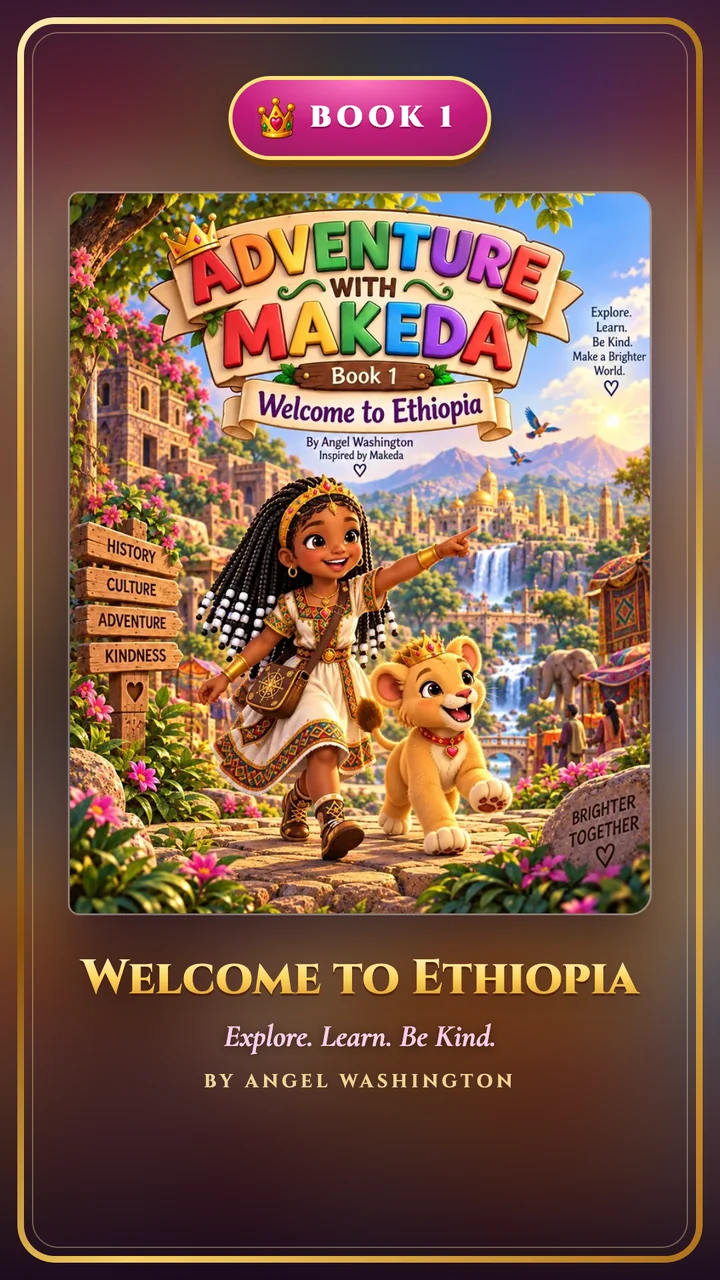
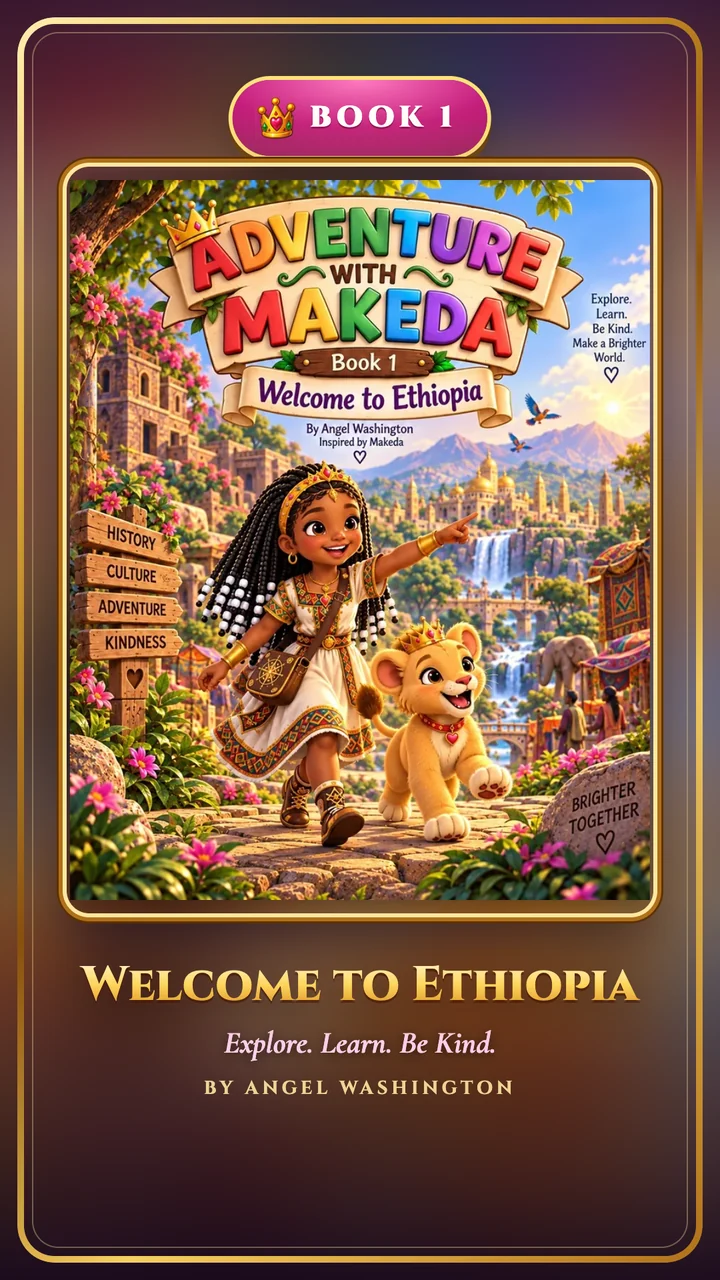
Add Book 5: Milo's Magical Groove; one uniform art window for every card
All five series cards share an identical 9:16 frame and art window; each
cover sits whole inside it over a blurred fill of its own art. Book 5 joins
the home and story fans, the library, and replaces the map's coming-soon orb.

diff --git a/index.html b/index.html
@@ -18,7 +18,7 @@
 <link rel="preconnect" href="https://fonts.gstatic.com" crossorigin>
 <link rel="stylesheet" href="https://fonts.googleapis.com/css2?family=Cinzel:wght@600;700;800&amp;family=Cormorant+Garamond:ital,wght@0,500;0,600;1,600;1,700&amp;family=DM+Sans:wght@400;500;700&amp;display=swap">
 <link rel="preload" as="image" href="assets/logo-1200.webp" fetchpriority="high">
-<link rel="stylesheet" href="styles.css?v=a5ae0f2f">
+<link rel="stylesheet" href="styles.css?v=849db406">
 <script>document.documentElement.classList.add('js')</script>
 </head>
 <body>
@@ -57,12 +57,9 @@
       </div>
       <a class="song-chip" href="#theme" data-play-theme><span class="song-chip-note" aria-hidden="true"><svg viewBox="0 0 24 24"><path d="M9 17.5V6.2l10-2.2v11.3"/><circle cx="6.5" cy="17.5" r="2.5"/><circle cx="16.5" cy="15.3" r="2.5"/></svg></span>Play the theme song</a>
     </div>
-    <div class="shelf shelf4" aria-label="Adventure with Makeda books 1 to 4">
+    <div class="shelf shelf5" aria-label="Adventure with Makeda books 1 to 5">
       <div class="shelf-glow" aria-hidden="true"></div>
-      <figure class="book f1 b1" style="aspect-ratio:9 / 16"><div class="cover"><img src="assets/book1-card-720.webp" srcset="assets/book1-card-360.webp 360w, assets/book1-card-720.webp 720w" sizes="(max-width: 860px) 120px, 210px" width="720" height="1280" fetchpriority="high" alt="Book 1: Welcome to Ethiopia. Makeda points toward a golden city and waterfalls, walking beside Faith, her lion cub."></div></figure>
-      <figure class="book f2 b2" style="aspect-ratio:9 / 16"><div class="cover"><img src="assets/book2-card-720.webp" srcset="assets/book2-card-360.webp 360w, assets/book2-card-720.webp 720w" sizes="(max-width: 860px) 120px, 200px" width="720" height="1280" fetchpriority="high" alt="Book 2: The Forest of Belonging. Makeda walks a mossy branch with a compass, a hummingbird, a pangolin and an otter."></div></figure>
-      <figure class="book f3 b3" style="aspect-ratio:9 / 16"><div class="cover"><img src="assets/book3-card-720.webp" srcset="assets/book3-card-360.webp 360w, assets/book3-card-720.webp 720w" sizes="(max-width: 860px) 110px, 200px" width="720" height="1280" fetchpriority="high" alt="Book 3: Auntie Rocky&rsquo;s Legacy Garden, The Path of Eternal Love. Makeda writes in her journal in a blooming garden with Faith."></div></figure>
-      <figure class="book f4 b4" style="aspect-ratio:9 / 16"><div class="cover"><img src="assets/book4-card-720.webp" srcset="assets/book4-card-360.webp 360w, assets/book4-card-720.webp 720w" sizes="(max-width: 860px) 120px, 210px" width="720" height="1280" fetchpriority="high" alt="Book 4: Apollo and the Realm of Brilliant Minds. Makeda and her brother Apollo ride Faith, a winged lion cub, over floating islands."></div></figure>
+      <figure class="book f1 b1" style="aspect-ratio:9 / 16"><div class="cover"><img src="assets/book1-card-720.webp" srcset="assets/book1-card-360.webp 360w, assets/book1-card-720.webp 720w" sizes="(max-width: 860px) 100px, 190px" width="720" height="1280" fetchpriority="high" alt="Book 1: Welcome to Ethiopia. Makeda points toward a golden city and waterfalls, walking beside Faith, her lion cub."></div></figure><figure class="book f2 b2" style="aspect-ratio:9 / 16"><div class="cover"><img src="assets/book2-card-720.webp" srcset="assets/book2-card-360.webp 360w, assets/book2-card-720.webp 720w" sizes="(max-width: 860px) 100px, 190px" width="720" height="1280" fetchpriority="high" alt="Book 2: The Forest of Belonging. Makeda walks a mossy branch with a compass, a hummingbird, a pangolin and an otter."></div></figure><figure class="book f3 b3" style="aspect-ratio:9 / 16"><div class="cover"><img src="assets/book3-card-720.webp" srcset="assets/book3-card-360.webp 360w, assets/book3-card-720.webp 720w" sizes="(max-width: 860px) 100px, 190px" width="720" height="1280" fetchpriority="high" alt="Book 3: Auntie Rocky&rsquo;s Legacy Garden, The Path of Eternal Love. Makeda writes in her journal in a blooming garden with Faith."></div></figure><figure class="book f4 b4" style="aspect-ratio:9 / 16"><div class="cover"><img src="assets/book4-card-720.webp" srcset="assets/book4-card-360.webp 360w, assets/book4-card-720.webp 720w" sizes="(max-width: 860px) 100px, 190px" width="720" height="1280" fetchpriority="high" alt="Book 4: Apollo and the Realm of Brilliant Minds. Makeda and her brother Apollo ride Faith, a winged lion cub, over floating islands."></div></figure><figure class="book f5 b5" style="aspect-ratio:9 / 16"><div class="cover"><img src="assets/book5-card-720.webp" srcset="assets/book5-card-360.webp 360w, assets/book5-card-720.webp 720w" sizes="(max-width: 860px) 100px, 190px" width="720" height="1280" fetchpriority="high" alt="Book 5: Milo&rsquo;s Magical Groove. Makeda and her cousin Milo dance on a glowing treehouse stage full of music notes and forest friends."></div></figure>
     </div>
   </div>
   <div class="clouds to-lavender" aria-hidden="true"></div>
@@ -77,7 +74,7 @@
     </header>
     <div class="map" data-map>
   <svg class="trail" aria-hidden="true"><path class="base"/><path class="dots"/></svg>
-  <ol class="nodes" style="list-style:none;margin:0;padding:0" aria-label="Worlds of the Makeda Multiverse"><li class="node" style="--x:10%;--y:62%;--mx:30%;--my:8%;--dl:-0.0s"><button class="portal" type="button" data-world="ethiopia" aria-label="Book 1: Welcome to Ethiopia. Open this world."><span class="badge-num" aria-hidden="true">Book 1</span><img src="assets/book1-cover-480.webp" alt="" style="--op:48% 50%" loading="lazy" decoding="async"></button><span class="node-title">Welcome to Ethiopia</span><span class="node-tag">Open the world</span></li><li class="node" style="--x:31%;--y:28%;--mx:70%;--my:27%;--dl:-0.9s"><button class="portal" type="button" data-world="forest" aria-label="Book 2: The Forest of Belonging. Open this world."><span class="badge-num" aria-hidden="true">Book 2</span><img src="assets/book2-cover-v2-640.webp" alt="" style="--op:50% 55%" loading="lazy" decoding="async"></button><span class="node-title">The Forest of Belonging</span><span class="node-tag">Open the world</span></li><li class="node" style="--x:52%;--y:66%;--mx:32%;--my:47%;--dl:-1.8s"><button class="portal" type="button" data-world="garden" aria-label="Book 3: Auntie Rocky&rsquo;s Legacy Garden. Open this world."><span class="badge-num" aria-hidden="true">Book 3</span><img src="assets/book3-cover-480.webp" alt="" style="--op:42% 55%" loading="lazy" decoding="async"></button><span class="node-title">Auntie Rocky&rsquo;s Legacy Garden</span><span class="node-tag">Open the world</span></li><li class="node" style="--x:72%;--y:30%;--mx:68%;--my:67%;--dl:-2.7s"><button class="portal" type="button" data-world="realm" aria-label="Book 4: Apollo and the Realm of Brilliant Minds. Open this world."><span class="badge-num" aria-hidden="true">Book 4</span><img src="assets/book4-cover-480.webp" alt="" style="--op:50% 52%" loading="lazy" decoding="async"></button><span class="node-title">Apollo and the Realm of Brilliant Minds</span><span class="node-tag">Open the world</span></li><li class="node" style="--x:91%;--y:64%;--mx:34%;--my:88%;--dl:-3.6s"><button class="portal soon" type="button" data-world="milo" aria-label="Milo&rsquo;s Magical Groove. Coming soon."><span class="badge-num" aria-hidden="true">Soon</span><span class="orb" style="--c1:#7df0b0;--c2:#118a58"><img src="assets/deco-gem-green.webp" alt="" loading="lazy" decoding="async"></span></button><span class="node-title">Milo&rsquo;s Magical Groove</span><span class="node-tag soon">Coming soon</span></li></ol>
+  <ol class="nodes" style="list-style:none;margin:0;padding:0" aria-label="Worlds of the Makeda Multiverse"><li class="node" style="--x:10%;--y:62%;--mx:30%;--my:8%;--dl:-0.0s"><button class="portal" type="button" data-world="ethiopia" aria-label="Book 1: Welcome to Ethiopia. Open this world."><span class="badge-num" aria-hidden="true">Book 1</span><img src="assets/book1-cover-480.webp" alt="" style="--op:48% 50%" loading="lazy" decoding="async"></button><span class="node-title">Welcome to Ethiopia</span><span class="node-tag">Open the world</span></li><li class="node" style="--x:31%;--y:28%;--mx:70%;--my:27%;--dl:-0.9s"><button class="portal" type="button" data-world="forest" aria-label="Book 2: The Forest of Belonging. Open this world."><span class="badge-num" aria-hidden="true">Book 2</span><img src="assets/book2-cover-v2-640.webp" alt="" style="--op:50% 55%" loading="lazy" decoding="async"></button><span class="node-title">The Forest of Belonging</span><span class="node-tag">Open the world</span></li><li class="node" style="--x:52%;--y:66%;--mx:32%;--my:47%;--dl:-1.8s"><button class="portal" type="button" data-world="garden" aria-label="Book 3: Auntie Rocky&rsquo;s Legacy Garden. Open this world."><span class="badge-num" aria-hidden="true">Book 3</span><img src="assets/book3-cover-480.webp" alt="" style="--op:42% 55%" loading="lazy" decoding="async"></button><span class="node-title">Auntie Rocky&rsquo;s Legacy Garden</span><span class="node-tag">Open the world</span></li><li class="node" style="--x:72%;--y:30%;--mx:68%;--my:67%;--dl:-2.7s"><button class="portal" type="button" data-world="realm" aria-label="Book 4: Apollo and the Realm of Brilliant Minds. Open this world."><span class="badge-num" aria-hidden="true">Book 4</span><img src="assets/book4-cover-480.webp" alt="" style="--op:50% 52%" loading="lazy" decoding="async"></button><span class="node-title">Apollo and the Realm of Brilliant Minds</span><span class="node-tag">Open the world</span></li><li class="node" style="--x:91%;--y:64%;--mx:34%;--my:88%;--dl:-3.6s"><button class="portal" type="button" data-world="milo" aria-label="Book 5: Milo&rsquo;s Magical Groove. Open this world."><span class="badge-num" aria-hidden="true">Book 5</span><img src="assets/book5-cover-480.webp" alt="" style="--op:50% 60%" loading="lazy" decoding="async"></button><span class="node-title">Milo&rsquo;s Magical Groove</span><span class="node-tag">Open the world</span></li></ol>
 </div>
   </div>
 </section>
@@ -157,7 +154,7 @@
     <div class="toc reveal">
       <h3>Contents</h3>
       <ol>
-        <li><span class="t">Read</span><span class="leader" aria-hidden="true"></span><span class="status now">4 books</span><p class="d">Illustrated storybooks by Angel Washington.</p></li>
+        <li><span class="t">Read</span><span class="leader" aria-hidden="true"></span><span class="status now">5 books</span><p class="d">Illustrated storybooks by Angel Washington.</p></li>
         <li><span class="t">Watch</span><span class="leader" aria-hidden="true"></span><span class="status">In development</span><p class="d">Animated stories that bring Makeda&rsquo;s adventures to life for the whole family.</p></li>
         <li><span class="t">Listen</span><span class="leader" aria-hidden="true"></span><span class="status">In development</span><p class="d">Songs and read-alongs for every kind of listener.</p></li>
         <li><span class="t">Learn</span><span class="leader" aria-hidden="true"></span><span class="status">In development</span><p class="d">Activities for families and classrooms that grow from each story.</p></li>
@@ -215,10 +212,11 @@
 </dialog>
 <dialog class="world-card" id="world-milo" aria-labelledby="wd-milo">
   <button class="world-close" type="button" data-close aria-label="Close">&times;</button>
-  <div class="world-inner"><div class="soon-orb"><span class="orb" style="--c1:#7df0b0;--c2:#118a58;aspect-ratio:1;display:grid"><img src="assets/deco-gem-green.webp" alt="" style="width:46%"></span></div><div><p class="eyebrow">A world being imagined</p>
+  <div class="world-inner"><figure class="book b5" style="aspect-ratio:9 / 16"><div class="cover"><img src="assets/book5-card-720.webp" srcset="assets/book5-card-360.webp 360w, assets/book5-card-720.webp 720w" sizes="(max-width: 860px) 56vw, 260px" width="720" height="1280" loading="lazy" decoding="async" alt="Book 5: Milo&rsquo;s Magical Groove. Makeda and her cousin Milo dance on a glowing treehouse stage full of music notes and forest friends."></div></figure><div><p class="eyebrow">Book 5 &middot; by Angel Washington</p>
       <h2 id="wd-milo">Milo&rsquo;s Magical Groove</h2>
-      <p class="tagline">This portal is still sparkling into shape.</p>
-      <p>Music, teamwork, and cousin-sized joy. Check back soon &mdash; new worlds open as each story is ready.</p></div></div>
+      <p class="tagline">A rhythm-filled adventure of friendship, faith, and finding our beat.</p>
+      <p>Makeda and her cousin Milo light up a treehouse stage, where every beat, dance, and friend helps the whole forest find its groove.</p>
+      <div class="actions"><a class="btn btn-jewel btn-lg" href="parents.html#partners"><span class="gloss" aria-hidden="true"></span>Ask about this book <span class="arrow" aria-hidden="true">&rarr;</span></a></div></div></div>
 </dialog>
 </main>
 <footer class="site-foot">
@@ -232,7 +230,7 @@
     <small>&copy; 2026 Adventure with Makeda. Stories by Angel Washington. All rights reserved.</small>
   </div>
 </footer>
-<script src="site.js?v=a5ae0f2f" defer></script>
-<script src="enchant.js?v=a5ae0f2f" defer></script>
+<script src="site.js?v=849db406" defer></script>
+<script src="enchant.js?v=849db406" defer></script>
 </body>
 </html>

diff --git a/world.html b/world.html
@@ -4,10 +4,10 @@
 <meta charset="utf-8">
 <meta name="viewport" content="width=device-width, initial-scale=1, viewport-fit=cover">
 <title>The Multiverse | Adventure with Makeda</title>
-<meta name="description" content="Explore the worlds of Adventure with Makeda: Welcome to Ethiopia, The Forest of Belonging, Auntie Rocky&rsquo;s Legacy Garden, and The Realm of Brilliant Minds.">
+<meta name="description" content="Explore the worlds of Adventure with Makeda: Welcome to Ethiopia, The Forest of Belonging, Auntie Rocky&rsquo;s Legacy Garden, The Realm of Brilliant Minds, and Milo&rsquo;s Magical Groove.">
 <meta name="theme-color" content="#2a0d63">
 <meta property="og:title" content="The Multiverse | Adventure with Makeda">
-<meta property="og:description" content="Explore the worlds of Adventure with Makeda: Welcome to Ethiopia, The Forest of Belonging, Auntie Rocky&rsquo;s Legacy Garden, and The Realm of Brilliant Minds.">
+<meta property="og:description" content="Explore the worlds of Adventure with Makeda: Welcome to Ethiopia, The Forest of Belonging, Auntie Rocky&rsquo;s Legacy Garden, The Realm of Brilliant Minds, and Milo&rsquo;s Magical Groove.">
 <meta property="og:image" content="https://adventurewithmakeda.com/assets/book4-card-720.webp">
 <meta property="og:type" content="website">
 <meta name="twitter:card" content="summary_large_image">
@@ -18,7 +18,7 @@
 <link rel="preconnect" href="https://fonts.gstatic.com" crossorigin>
 <link rel="stylesheet" href="https://fonts.googleapis.com/css2?family=Cinzel:wght@600;700;800&amp;family=Cormorant+Garamond:ital,wght@0,500;0,600;1,600;1,700&amp;family=DM+Sans:wght@400;500;700&amp;display=swap">
 
-<link rel="stylesheet" href="styles.css?v=a5ae0f2f">
+<link rel="stylesheet" href="styles.css?v=849db406">
 <script>document.documentElement.classList.add('js')</script>
 </head>
 <body>
@@ -63,11 +63,11 @@
     <header class="section-head reveal">
       <p class="eyebrow">Choose your world</p>
       <h2 id="worlds-title" class="display-l">The world map</h2>
-      <p class="lede">Four worlds are open, and more portals are sparkling into shape. Tap one to peek inside.</p>
+      <p class="lede">Five worlds are open, with more portals sparkling into shape. Tap one to peek inside.</p>
     </header>
     <div class="map" data-map>
   <svg class="trail" aria-hidden="true"><path class="base"/><path class="dots"/></svg>
-  <ol class="nodes" style="list-style:none;margin:0;padding:0" aria-label="Worlds of the Makeda Multiverse"><li class="node" style="--x:10%;--y:62%;--mx:30%;--my:8%;--dl:-0.0s"><button class="portal" type="button" data-world="ethiopia" aria-label="Book 1: Welcome to Ethiopia. Open this world."><span class="badge-num" aria-hidden="true">Book 1</span><img src="assets/book1-cover-480.webp" alt="" style="--op:48% 50%" loading="lazy" decoding="async"></button><span class="node-title">Welcome to Ethiopia</span><span class="node-tag">Open the world</span></li><li class="node" style="--x:31%;--y:28%;--mx:70%;--my:27%;--dl:-0.9s"><button class="portal" type="button" data-world="forest" aria-label="Book 2: The Forest of Belonging. Open this world."><span class="badge-num" aria-hidden="true">Book 2</span><img src="assets/book2-cover-v2-640.webp" alt="" style="--op:50% 55%" loading="lazy" decoding="async"></button><span class="node-title">The Forest of Belonging</span><span class="node-tag">Open the world</span></li><li class="node" style="--x:52%;--y:66%;--mx:32%;--my:47%;--dl:-1.8s"><button class="portal" type="button" data-world="garden" aria-label="Book 3: Auntie Rocky&rsquo;s Legacy Garden. Open this world."><span class="badge-num" aria-hidden="true">Book 3</span><img src="assets/book3-cover-480.webp" alt="" style="--op:42% 55%" loading="lazy" decoding="async"></button><span class="node-title">Auntie Rocky&rsquo;s Legacy Garden</span><span class="node-tag">Open the world</span></li><li class="node" style="--x:72%;--y:30%;--mx:68%;--my:67%;--dl:-2.7s"><button class="portal" type="button" data-world="realm" aria-label="Book 4: Apollo and the Realm of Brilliant Minds. Open this world."><span class="badge-num" aria-hidden="true">Book 4</span><img src="assets/book4-cover-480.webp" alt="" style="--op:50% 52%" loading="lazy" decoding="async"></button><span class="node-title">Apollo and the Realm of Brilliant Minds</span><span class="node-tag">Open the world</span></li><li class="node" style="--x:91%;--y:64%;--mx:34%;--my:88%;--dl:-3.6s"><button class="portal soon" type="button" data-world="milo" aria-label="Milo&rsquo;s Magical Groove. Coming soon."><span class="badge-num" aria-hidden="true">Soon</span><span class="orb" style="--c1:#7df0b0;--c2:#118a58"><img src="assets/deco-gem-green.webp" alt="" loading="lazy" decoding="async"></span></button><span class="node-title">Milo&rsquo;s Magical Groove</span><span class="node-tag soon">Coming soon</span></li></ol>
+  <ol class="nodes" style="list-style:none;margin:0;padding:0" aria-label="Worlds of the Makeda Multiverse"><li class="node" style="--x:10%;--y:62%;--mx:30%;--my:8%;--dl:-0.0s"><button class="portal" type="button" data-world="ethiopia" aria-label="Book 1: Welcome to Ethiopia. Open this world."><span class="badge-num" aria-hidden="true">Book 1</span><img src="assets/book1-cover-480.webp" alt="" style="--op:48% 50%" loading="lazy" decoding="async"></button><span class="node-title">Welcome to Ethiopia</span><span class="node-tag">Open the world</span></li><li class="node" style="--x:31%;--y:28%;--mx:70%;--my:27%;--dl:-0.9s"><button class="portal" type="button" data-world="forest" aria-label="Book 2: The Forest of Belonging. Open this world."><span class="badge-num" aria-hidden="true">Book 2</span><img src="assets/book2-cover-v2-640.webp" alt="" style="--op:50% 55%" loading="lazy" decoding="async"></button><span class="node-title">The Forest of Belonging</span><span class="node-tag">Open the world</span></li><li class="node" style="--x:52%;--y:66%;--mx:32%;--my:47%;--dl:-1.8s"><button class="portal" type="button" data-world="garden" aria-label="Book 3: Auntie Rocky&rsquo;s Legacy Garden. Open this world."><span class="badge-num" aria-hidden="true">Book 3</span><img src="assets/book3-cover-480.webp" alt="" style="--op:42% 55%" loading="lazy" decoding="async"></button><span class="node-title">Auntie Rocky&rsquo;s Legacy Garden</span><span class="node-tag">Open the world</span></li><li class="node" style="--x:72%;--y:30%;--mx:68%;--my:67%;--dl:-2.7s"><button class="portal" type="button" data-world="realm" aria-label="Book 4: Apollo and the Realm of Brilliant Minds. Open this world."><span class="badge-num" aria-hidden="true">Book 4</span><img src="assets/book4-cover-480.webp" alt="" style="--op:50% 52%" loading="lazy" decoding="async"></button><span class="node-title">Apollo and the Realm of Brilliant Minds</span><span class="node-tag">Open the world</span></li><li class="node" style="--x:91%;--y:64%;--mx:34%;--my:88%;--dl:-3.6s"><button class="portal" type="button" data-world="milo" aria-label="Book 5: Milo&rsquo;s Magical Groove. Open this world."><span class="badge-num" aria-hidden="true">Book 5</span><img src="assets/book5-cover-480.webp" alt="" style="--op:50% 60%" loading="lazy" decoding="async"></button><span class="node-title">Milo&rsquo;s Magical Groove</span><span class="node-tag">Open the world</span></li></ol>
 </div>
   </div>
 </section>
@@ -91,6 +91,9 @@
       </button></li><li class="reveal"><button class="lib-book" type="button" data-world="realm" aria-label="Book 4: Apollo and the Realm of Brilliant Minds. Open this world.">
         <span class="lib-stage"><figure class="book b4" style="aspect-ratio:9 / 16"><div class="cover"><img src="assets/book4-card-720.webp" srcset="assets/book4-card-360.webp 360w, assets/book4-card-720.webp 720w" sizes="(max-width: 860px) 42vw, 250px" width="720" height="1280" loading="lazy" decoding="async" alt="Book 4: Apollo and the Realm of Brilliant Minds. Makeda and her brother Apollo ride Faith, a winged lion cub, over floating islands."></div></figure></span>
         <span class="lib-num">Book 4</span><span class="lib-title">Apollo and the Realm of Brilliant Minds</span><span class="lib-tag">Different Minds. Different Gifts. One Beautiful World.</span>
+      </button></li><li class="reveal"><button class="lib-book" type="button" data-world="milo" aria-label="Book 5: Milo&rsquo;s Magical Groove. Open this world.">
+        <span class="lib-stage"><figure class="book b5" style="aspect-ratio:9 / 16"><div class="cover"><img src="assets/book5-card-720.webp" srcset="assets/book5-card-360.webp 360w, assets/book5-card-720.webp 720w" sizes="(max-width: 860px) 42vw, 250px" width="720" height="1280" loading="lazy" decoding="async" alt="Book 5: Milo&rsquo;s Magical Groove. Makeda and her cousin Milo dance on a glowing treehouse stage full of music notes and forest friends."></div></figure></span>
+        <span class="lib-num">Book 5</span><span class="lib-title">Milo&rsquo;s Magical Groove</span><span class="lib-tag">A rhythm-filled adventure of friendship, faith, and finding our beat.</span>
       </button></li>
     </ol>
   </div>
@@ -129,10 +132,11 @@
 </dialog>
 <dialog class="world-card" id="world-milo" aria-labelledby="wd-milo">
   <button class="world-close" type="button" data-close aria-label="Close">&times;</button>
-  <div class="world-inner"><div class="soon-orb"><span class="orb" style="--c1:#7df0b0;--c2:#118a58;aspect-ratio:1;display:grid"><img src="assets/deco-gem-green.webp" alt="" style="width:46%"></span></div><div><p class="eyebrow">A world being imagined</p>
+  <div class="world-inner"><figure class="book b5" style="aspect-ratio:9 / 16"><div class="cover"><img src="assets/book5-card-720.webp" srcset="assets/book5-card-360.webp 360w, assets/book5-card-720.webp 720w" sizes="(max-width: 860px) 56vw, 260px" width="720" height="1280" loading="lazy" decoding="async" alt="Book 5: Milo&rsquo;s Magical Groove. Makeda and her cousin Milo dance on a glowing treehouse stage full of music notes and forest friends."></div></figure><div><p class="eyebrow">Book 5 &middot; by Angel Washington</p>
       <h2 id="wd-milo">Milo&rsquo;s Magical Groove</h2>
-      <p class="tagline">This portal is still sparkling into shape.</p>
-      <p>Music, teamwork, and cousin-sized joy. Check back soon &mdash; new worlds open as each story is ready.</p></div></div>
+      <p class="tagline">A rhythm-filled adventure of friendship, faith, and finding our beat.</p>
+      <p>Makeda and her cousin Milo light up a treehouse stage, where every beat, dance, and friend helps the whole forest find its groove.</p>
+      <div class="actions"><a class="btn btn-jewel btn-lg" href="parents.html#partners"><span class="gloss" aria-hidden="true"></span>Ask about this book <span class="arrow" aria-hidden="true">&rarr;</span></a></div></div></div>
 </dialog>
 </main>
 <footer class="site-foot">
@@ -146,7 +150,7 @@
     <small>&copy; 2026 Adventure with Makeda. Stories by Angel Washington. All rights reserved.</small>
   </div>
 </footer>
-<script src="site.js?v=a5ae0f2f" defer></script>
-<script src="enchant.js?v=a5ae0f2f" defer></script>
+<script src="site.js?v=849db406" defer></script>
+<script src="enchant.js?v=849db406" defer></script>
 </body>
 </html>

diff --git a/story.html b/story.html
@@ -18,7 +18,7 @@
 <link rel="preconnect" href="https://fonts.gstatic.com" crossorigin>
 <link rel="stylesheet" href="https://fonts.googleapis.com/css2?family=Cinzel:wght@600;700;800&amp;family=Cormorant+Garamond:ital,wght@0,500;0,600;1,600;1,700&amp;family=DM+Sans:wght@400;500;700&amp;display=swap">
 
-<link rel="stylesheet" href="styles.css?v=a5ae0f2f">
+<link rel="stylesheet" href="styles.css?v=849db406">
 <script>document.documentElement.classList.add('js')</script>
 </head>
 <body>
@@ -60,12 +60,9 @@
 </section>
 <section class="section" style="background:#fff" aria-labelledby="wonder-title">
   <div class="wrap feature flip">
-    <div class="shelf shelf4" aria-label="Adventure with Makeda books 1 to 4">
+    <div class="shelf shelf5" aria-label="Adventure with Makeda books 1 to 5">
       <div class="shelf-glow" aria-hidden="true"></div>
-      <figure class="book f1 b1" style="aspect-ratio:9 / 16"><div class="cover"><img src="assets/book1-card-720.webp" srcset="assets/book1-card-360.webp 360w, assets/book1-card-720.webp 720w" sizes="(max-width: 860px) 120px, 210px" width="720" height="1280" loading="lazy" decoding="async" alt="Book 1: Welcome to Ethiopia. Makeda points toward a golden city and waterfalls, walking beside Faith, her lion cub."></div></figure>
-      <figure class="book f2 b2" style="aspect-ratio:9 / 16"><div class="cover"><img src="assets/book2-card-720.webp" srcset="assets/book2-card-360.webp 360w, assets/book2-card-720.webp 720w" sizes="(max-width: 860px) 120px, 200px" width="720" height="1280" loading="lazy" decoding="async" alt="Book 2: The Forest of Belonging. Makeda walks a mossy branch with a compass, a hummingbird, a pangolin and an otter."></div></figure>
-      <figure class="book f3 b3" style="aspect-ratio:9 / 16"><div class="cover"><img src="assets/book3-card-720.webp" srcset="assets/book3-card-360.webp 360w, assets/book3-card-720.webp 720w" sizes="(max-width: 860px) 110px, 200px" width="720" height="1280" loading="lazy" decoding="async" alt="Book 3: Auntie Rocky&rsquo;s Legacy Garden, The Path of Eternal Love. Makeda writes in her journal in a blooming garden with Faith."></div></figure>
-      <figure class="book f4 b4" style="aspect-ratio:9 / 16"><div class="cover"><img src="assets/book4-card-720.webp" srcset="assets/book4-card-360.webp 360w, assets/book4-card-720.webp 720w" sizes="(max-width: 860px) 120px, 210px" width="720" height="1280" loading="lazy" decoding="async" alt="Book 4: Apollo and the Realm of Brilliant Minds. Makeda and her brother Apollo ride Faith, a winged lion cub, over floating islands."></div></figure>
+      <figure class="book f1 b1" style="aspect-ratio:9 / 16"><div class="cover"><img src="assets/book1-card-720.webp" srcset="assets/book1-card-360.webp 360w, assets/book1-card-720.webp 720w" sizes="(max-width: 860px) 100px, 190px" width="720" height="1280" loading="lazy" decoding="async" alt="Book 1: Welcome to Ethiopia. Makeda points toward a golden city and waterfalls, walking beside Faith, her lion cub."></div></figure><figure class="book f2 b2" style="aspect-ratio:9 / 16"><div class="cover"><img src="assets/book2-card-720.webp" srcset="assets/book2-card-360.webp 360w, assets/book2-card-720.webp 720w" sizes="(max-width: 860px) 100px, 190px" width="720" height="1280" loading="lazy" decoding="async" alt="Book 2: The Forest of Belonging. Makeda walks a mossy branch with a compass, a hummingbird, a pangolin and an otter."></div></figure><figure class="book f3 b3" style="aspect-ratio:9 / 16"><div class="cover"><img src="assets/book3-card-720.webp" srcset="assets/book3-card-360.webp 360w, assets/book3-card-720.webp 720w" sizes="(max-width: 860px) 100px, 190px" width="720" height="1280" loading="lazy" decoding="async" alt="Book 3: Auntie Rocky&rsquo;s Legacy Garden, The Path of Eternal Love. Makeda writes in her journal in a blooming garden with Faith."></div></figure><figure class="book f4 b4" style="aspect-ratio:9 / 16"><div class="cover"><img src="assets/book4-card-720.webp" srcset="assets/book4-card-360.webp 360w, assets/book4-card-720.webp 720w" sizes="(max-width: 860px) 100px, 190px" width="720" height="1280" loading="lazy" decoding="async" alt="Book 4: Apollo and the Realm of Brilliant Minds. Makeda and her brother Apollo ride Faith, a winged lion cub, over floating islands."></div></figure><figure class="book f5 b5" style="aspect-ratio:9 / 16"><div class="cover"><img src="assets/book5-card-720.webp" srcset="assets/book5-card-360.webp 360w, assets/book5-card-720.webp 720w" sizes="(max-width: 860px) 100px, 190px" width="720" height="1280" loading="lazy" decoding="async" alt="Book 5: Milo&rsquo;s Magical Groove. Makeda and her cousin Milo dance on a glowing treehouse stage full of music notes and forest friends."></div></figure>
     </div>
     <div class="reveal">
       <p class="eyebrow">The girl at the center</p>
@@ -132,7 +129,7 @@
     <small>&copy; 2026 Adventure with Makeda. Stories by Angel Washington. All rights reserved.</small>
   </div>
 </footer>
-<script src="site.js?v=a5ae0f2f" defer></script>
-<script src="enchant.js?v=a5ae0f2f" defer></script>
+<script src="site.js?v=849db406" defer></script>
+<script src="enchant.js?v=849db406" defer></script>
 </body>
 </html>

diff --git a/sw.js b/sw.js
@@ -1,10 +1,10 @@
 // Pages: network-first. Assets: stale-while-revalidate, so updates land on the next visit.
-const CACHE = 'awm-multiverse-v9';
+const CACHE = 'awm-multiverse-v10';
 const CORE = [
   './', './index.html', './story.html', './world.html', './song.html', './parents.html',
   './styles.css', './site.js', './enchant.js', './manifest.json', './favicon.png',
   './assets/logo-360.webp', './assets/logo-720.webp', './assets/logo-1200.webp',
-  './assets/book1-cover-480.webp', './assets/book3-cover-480.webp', './assets/book4-cover-480.webp', './assets/book2-cover-v2-640.webp', './assets/book1-card-360.webp', './assets/book2-card-360.webp', './assets/book3-card-360.webp', './assets/book4-card-360.webp',
+  './assets/book1-cover-480.webp', './assets/book3-cover-480.webp', './assets/book4-cover-480.webp', './assets/book2-cover-v2-640.webp', './assets/book1-card-360.webp', './assets/book2-card-360.webp', './assets/book3-card-360.webp', './assets/book4-card-360.webp', './assets/book5-card-360.webp', './assets/book5-cover-480.webp',
   './assets/cameo-makeda.webp', './assets/cameo-apollo.webp', './assets/cameo-faith.webp',
   './assets/theme-cover-400.webp', './assets/deco-heart.webp', './assets/deco-stars.webp', './assets/deco-gem-red.webp', './assets/deco-gem-green.webp', './assets/deco-crown.webp', './assets/deco-pearl.webp',
   './assets/value-learn.webp', './assets/value-faith.webp', './assets/value-love.webp', './assets/value-happiness.webp',

diff --git a/styles.css b/styles.css
@@ -1018,3 +1018,20 @@ p { margin: 0 0 1em; }
   .shelf.shelf4 { min-height: 290px; }
   .shelf.shelf4 .book.f1, .shelf.shelf4 .book.f2, .shelf.shelf4 .book.f3, .shelf.shelf4 .book.f4 { --bw: 100px; }
 }
+
+/* ---------- five-book fan (Books 1–5), every card identical in size ---------- */
+.shelf.shelf5 { min-height: clamp(420px, 40vw, 560px); }
+.shelf.shelf5 .book { --ry: 0deg; aspect-ratio: 9 / 16 !important; width: var(--bw); transform: var(--pose); transition: transform .6s var(--spring); --bw: clamp(130px, 12.4vw, 180px); }
+.shelf.shelf5 .book.f1 { --pose: translate(-126%, 12%) rotateY(18deg) rotate(-13deg); z-index: 1; }
+.shelf.shelf5 .book.f2 { --pose: translate(-64%, 3%) rotateY(10deg) rotate(-6.5deg); z-index: 2; }
+.shelf.shelf5 .book.f3 { --pose: translate(0, -2%); z-index: 4; }
+.shelf.shelf5 .book.f4 { --pose: translate(64%, 3%) rotateY(-10deg) rotate(6.5deg); z-index: 2; }
+.shelf.shelf5 .book.f5 { --pose: translate(126%, 12%) rotateY(-18deg) rotate(13deg); z-index: 1; }
+@media (hover: hover) { .shelf.shelf5 .book:hover { transform: var(--pose) translateY(-8%) scale(1.06); z-index: 6; } }
+.library { grid-template-columns: repeat(5, 1fr); }
+@media (max-width: 860px) {
+  .shelf.shelf5 { min-height: 250px; }
+  .shelf.shelf5 .book { --bw: 84px; }
+  .library { grid-template-columns: repeat(2, 1fr); }
+  .library > li:last-child { grid-column: 1 / -1; justify-self: center; width: 50%; }
+}

diff --git a/parents.html b/parents.html
@@ -18,7 +18,7 @@
 <link rel="preconnect" href="https://fonts.gstatic.com" crossorigin>
 <link rel="stylesheet" href="https://fonts.googleapis.com/css2?family=Cinzel:wght@600;700;800&amp;family=Cormorant+Garamond:ital,wght@0,500;0,600;1,600;1,700&amp;family=DM+Sans:wght@400;500;700&amp;display=swap">
 
-<link rel="stylesheet" href="styles.css?v=a5ae0f2f">
+<link rel="stylesheet" href="styles.css?v=849db406">
 <script>document.documentElement.classList.add('js')</script>
 </head>
 <body>
@@ -109,7 +109,7 @@
     <small>&copy; 2026 Adventure with Makeda. Stories by Angel Washington. All rights reserved.</small>
   </div>
 </footer>
-<script src="site.js?v=a5ae0f2f" defer></script>
-<script src="enchant.js?v=a5ae0f2f" defer></script>
+<script src="site.js?v=849db406" defer></script>
+<script src="enchant.js?v=849db406" defer></script>
 </body>
 </html>

diff --git a/song.html b/song.html
@@ -18,7 +18,7 @@
 <link rel="preconnect" href="https://fonts.gstatic.com" crossorigin>
 <link rel="stylesheet" href="https://fonts.googleapis.com/css2?family=Cinzel:wght@600;700;800&amp;family=Cormorant+Garamond:ital,wght@0,500;0,600;1,600;1,700&amp;family=DM+Sans:wght@400;500;700&amp;display=swap">
 
-<link rel="stylesheet" href="styles.css?v=a5ae0f2f">
+<link rel="stylesheet" href="styles.css?v=849db406">
 <script>document.documentElement.classList.add('js')</script>
 </head>
 <body>
@@ -114,7 +114,7 @@
     <small>&copy; 2026 Adventure with Makeda. Stories by Angel Washington. All rights reserved.</small>
   </div>
 </footer>
-<script src="site.js?v=a5ae0f2f" defer></script>
-<script src="enchant.js?v=a5ae0f2f" defer></script>
+<script src="site.js?v=849db406" defer></script>
+<script src="enchant.js?v=849db406" defer></script>
 </body>
 </html>
